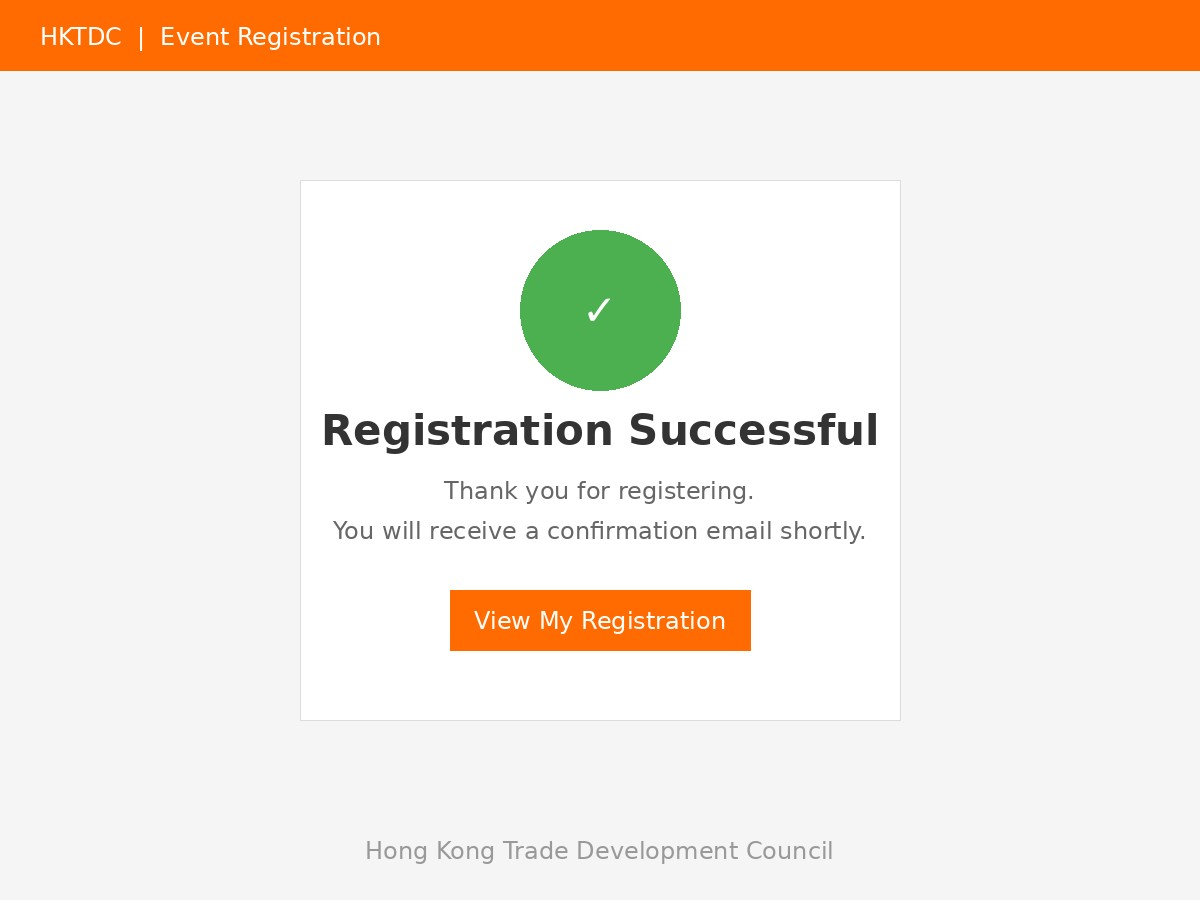
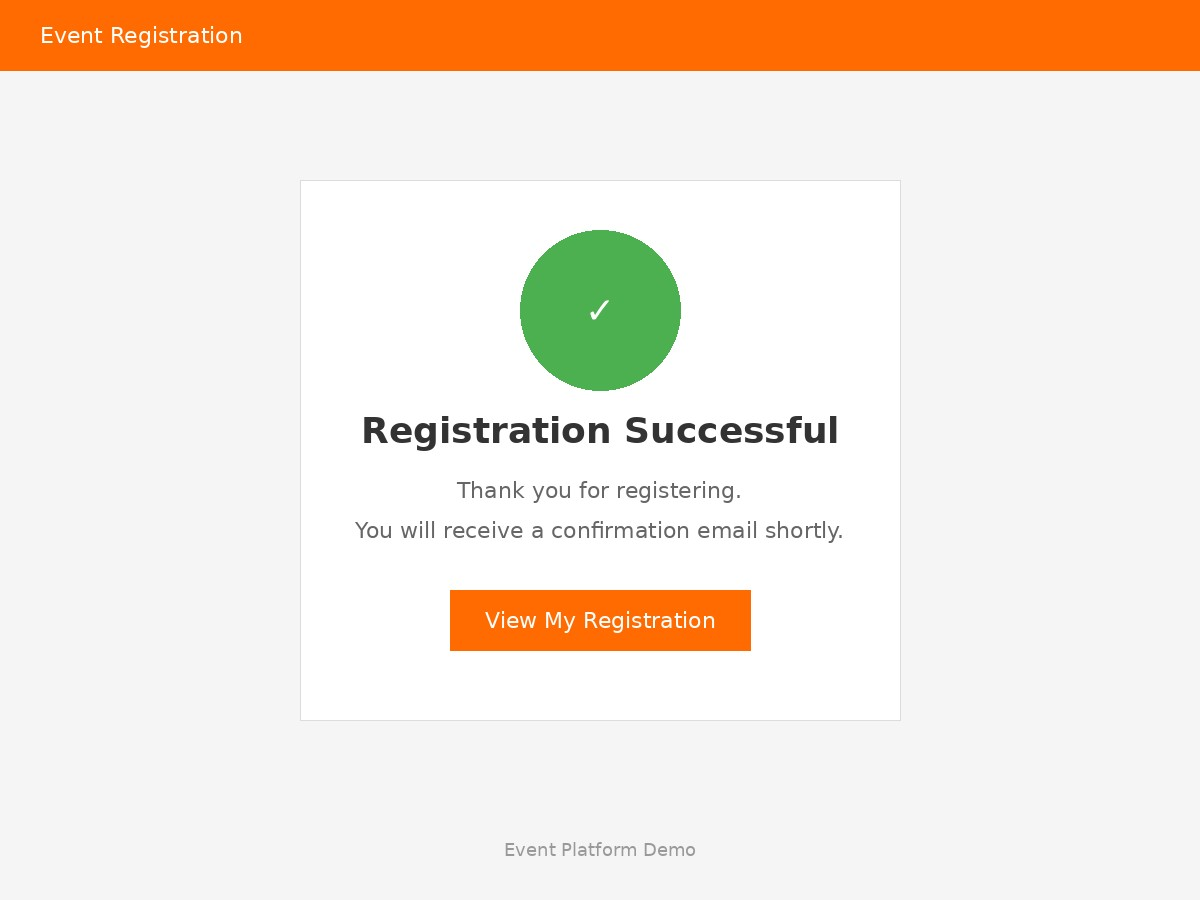
Add files via upload

diff --git a/index.html b/index.html
@@ -2,7 +2,7 @@
 <html class="staticrypt-html">
     <head>
         <meta charset="utf-8" />
-        <title>HKTDC Demo Access</title>
+        <title>Demo Access</title>
         <meta name="viewport" content="width=device-width, initial-scale=1" />
 
         <!-- do not cache this page -->
@@ -183,7 +183,7 @@
             <div class="staticrypt-page">
                 <div class="staticrypt-form">
                     <div class="staticrypt-instructions">
-                        <p class="staticrypt-title">HKTDC Demo Access</p>
+                        <p class="staticrypt-title">Demo Access</p>
                         <p>Enter the password to view the Social Sharing Pop-up demo.</p>
                     </div>
 
@@ -820,7 +820,7 @@ exports.init = init;
                 templateToggleAltShow = "Show password",
                 templateToggleAltHide = "Hide password",
                 isRememberEnabled = true,
[2 lines of base64/hex data omitted]
 
             // you can edit these values to customize some of the behavior of StatiCrypt
             const templateConfig = {

diff --git a/js/translations.js b/js/translations.js
@@ -9,7 +9,7 @@ const translations = {
       shareLabel: "Or share directly:",
       downloadBtn: "↓ Download Image",
       copyBtn: "⎘ Copy Shareable Link",
-      prefilledMessage: "I've registered for this HKTDC event. Join me!"
+      prefilledMessage: "I've registered for this event. Join me!"
     },
     tc: {
       title: "分享您的參與",
@@ -17,7 +17,7 @@ const translations = {
       shareLabel: "或直接分享：",
       downloadBtn: "↓ 下載圖片",
       copyBtn: "⎘ 複製分享連結",
-      prefilledMessage: "我已報名參加這個貿發局活動，邀請你一同參與！"
+      prefilledMessage: "我已報名參加這個活動，邀請你一同參與！"
     },
     sc: {
       title: "分享您的参与",
@@ -25,7 +25,7 @@ const translations = {
       shareLabel: "或直接分享：",
       downloadBtn: "↓ 下载图片",
       copyBtn: "⎘ 复制分享链接",
-      prefilledMessage: "我已报名参加这个贸发局活动，邀请你一同参与！"
+      prefilledMessage: "我已报名参加这个活动，邀请你一同参与！"
     }
   },
   2: {
@@ -35,7 +35,7 @@ const translations = {
       shareLabel: "Or share directly:",
       downloadBtn: "↓ Download Image",
       copyBtn: "⎘ Copy Shareable Link",
-      prefilledMessage: "Check out this HKTDC event – a great opportunity for our industry!"
+      prefilledMessage: "Check out this event – a great opportunity for our industry!"
     },
     tc: {
       title: "讓同行知道",
@@ -43,7 +43,7 @@ const translations = {
       shareLabel: "或直接分享：",
       downloadBtn: "↓ 下載圖片",
       copyBtn: "⎘ 複製分享連結",
-      prefilledMessage: "看看這個貿發局活動——對我們業界來說是一個很好的機會！"
+      prefilledMessage: "看看這個活動——對我們業界來說是一個很好的機會！"
     },
     sc: {
       title: "让同行知道",
@@ -51,7 +51,7 @@ const translations = {
       shareLabel: "或直接分享：",
       downloadBtn: "↓ 下载图片",
       copyBtn: "⎘ 复制分享链接",
-      prefilledMessage: "看看这个贸发局活动——对我们业界来说是一个很好的机会！"
+      prefilledMessage: "看看这个活动——对我们业界来说是一个很好的机会！"
     }
   },
   3: {
@@ -61,7 +61,7 @@ const translations = {
       shareLabel: "Or share directly:",
       downloadBtn: "↓ Download Image",
       copyBtn: "⎘ Copy Shareable Link",
-      prefilledMessage: "I'm attending this HKTDC event. Come explore with me!"
+      prefilledMessage: "I'm attending this event. Come explore with me!"
     },
     tc: {
       title: "您已參與",
@@ -69,7 +69,7 @@ const translations = {
       shareLabel: "或直接分享：",
       downloadBtn: "↓ 下載圖片",
       copyBtn: "⎘ 複製分享連結",
-      prefilledMessage: "我將參加這個貿發局活動，邀請你一同探索！"
+      prefilledMessage: "我將參加這個活動，邀請你一同探索！"
     },
     sc: {
       title: "您已参与",
@@ -77,21 +77,14 @@ const translations = {
       shareLabel: "或直接分享：",
       downloadBtn: "↓ 下载图片",
       copyBtn: "⎘ 复制分享链接",
-      prefilledMessage: "我将参加这个贸发局活动，邀请你一同探索！"
+      prefilledMessage: "我将参加这个活动，邀请你一同探索！"
     }
   }
 };
 
 // ==================== DEMO CONFIG ====================
-// In real implementation these would come from CMS / backend
-
 const demoConfig = {
-  // Base form sharing URL (without referral parameters)
   baseShareUrl: "https://www-uat.hktdc.com/event/foodexpopro/en/form/organic-form?visitor_type=01&country=&ref_office=&ref_code=38B48B9A8&reg_link_id=95fe644387fc80fd61f753a4fc759b7fcb1f65064d60026bb0bcd0597594a629",
-
-  // Simulated Referrer ID (Base62 of registration number) - 8-9 characters
   referrerId: "0LV3g9q8I",
-
-  // Event photo path
   eventPhoto: "./img/event-photo.jpg"
 };

diff --git a/script.js b/script.js
@@ -4,7 +4,7 @@ let currentLang = "en";
 
 // ==================== PASSWORD PROTECTION ====================
 // Change this password as needed
-const DEMO_PASSWORD = "HKTDC2026";
+const DEMO_PASSWORD = "demo2026";
 
 function checkPassword() {
   const input = document.getElementById("passwordInput");
@@ -117,7 +117,7 @@ function downloadImage() {
   const img = document.getElementById("eventPhoto");
   const link = document.createElement("a");
   link.href = img.src;
-  link.download = "HKTDC-Event-Image.jpg";
+  link.download = "Event-Image.jpg";
   document.body.appendChild(link);
   link.click();
   document.body.removeChild(link);
@@ -154,7 +154,7 @@ function shareTo(platform) {
       break;
 
     case "email":
-      url = `mailto:?subject=${encodeURIComponent("Join me at this HKTDC event")}&body=${encodeURIComponent(message + "\n\n" + shareUrl)}`;
+      url = `mailto:?subject=${encodeURIComponent("Join me at this event")}&body=${encodeURIComponent(message + "\n\n" + shareUrl)}`;
       break;
   }
 
@@ -181,7 +181,7 @@ function downloadQRCode() {
   const img = document.getElementById("qrImage");
   const link = document.createElement("a");
   link.href = img.src;
-  link.download = "HKTDC-Referral-QR.png";
+  link.download = "Referral-QR.png";
   document.body.appendChild(link);
   link.click();
   document.body.removeChild(link);

diff --git a/README.md b/README.md
@@ -1,6 +1,6 @@
-# HKTDC Social Sharing Pop-up Demo (Password Protected)
+# Social Sharing Pop-up Demo (Password Protected)
 
-This version is encrypted with **Staticrypt**.
+Encrypted with Staticrypt.
 
 ## Password
 ```
@@ -13,6 +13,6 @@ demo2026
 3. Enter `demo2026` to decrypt and view the demo
 
 ## Notes
-- The page content is encrypted at rest
+- Page content is encrypted at rest
 - CSS, JS and images load after successful decryption
 - "Remember me" is enabled for 1 day
